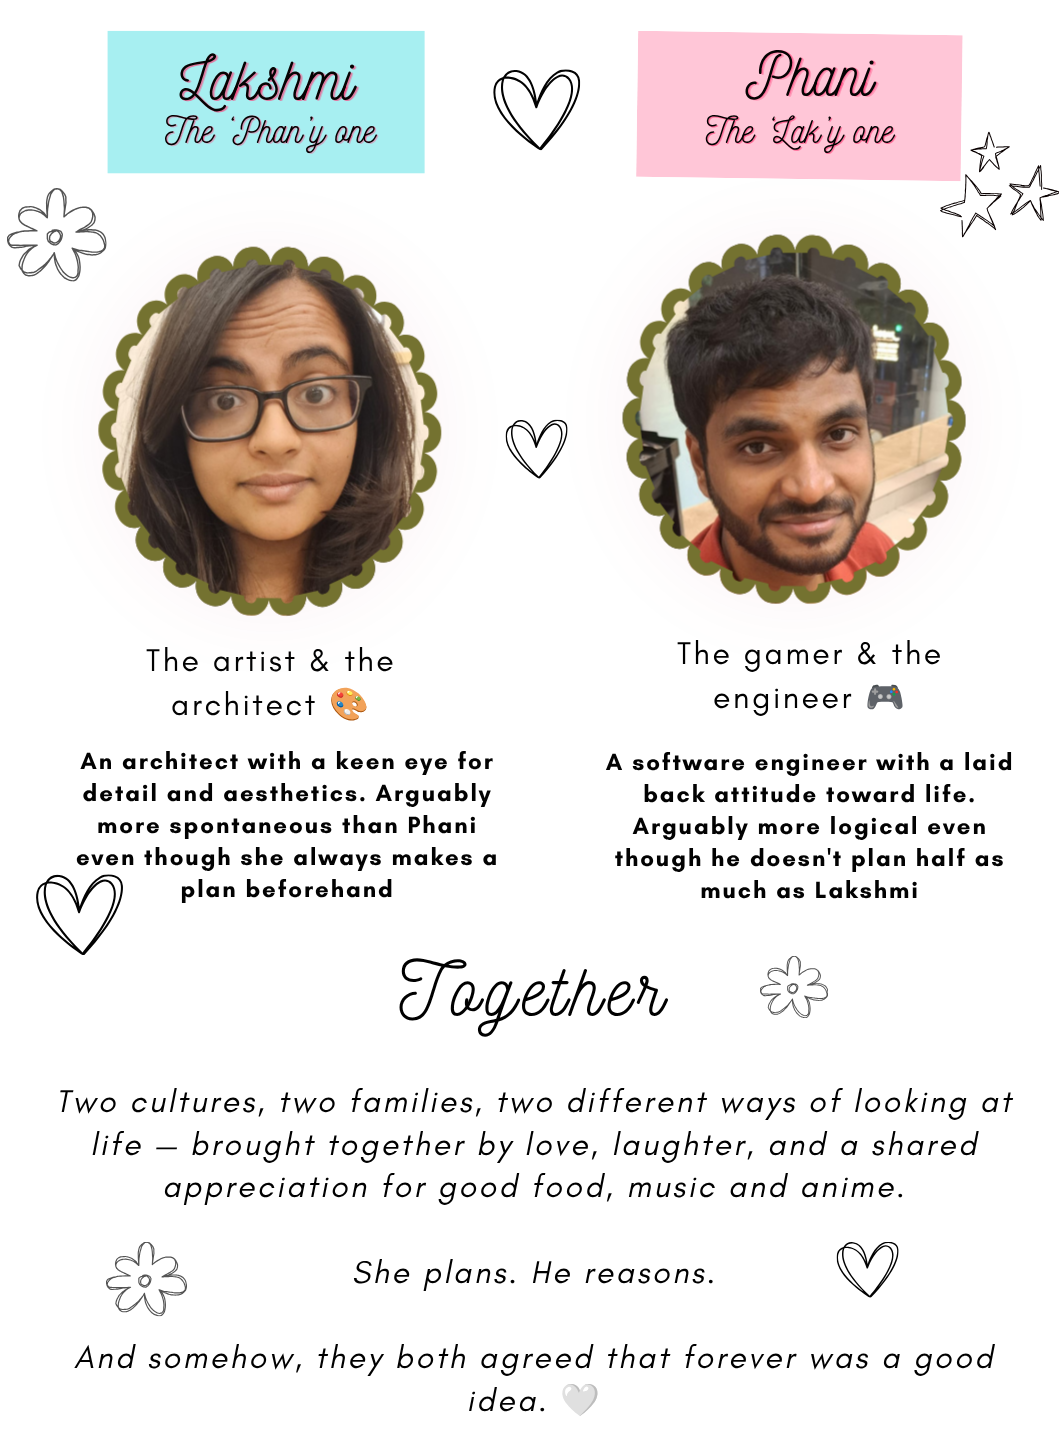
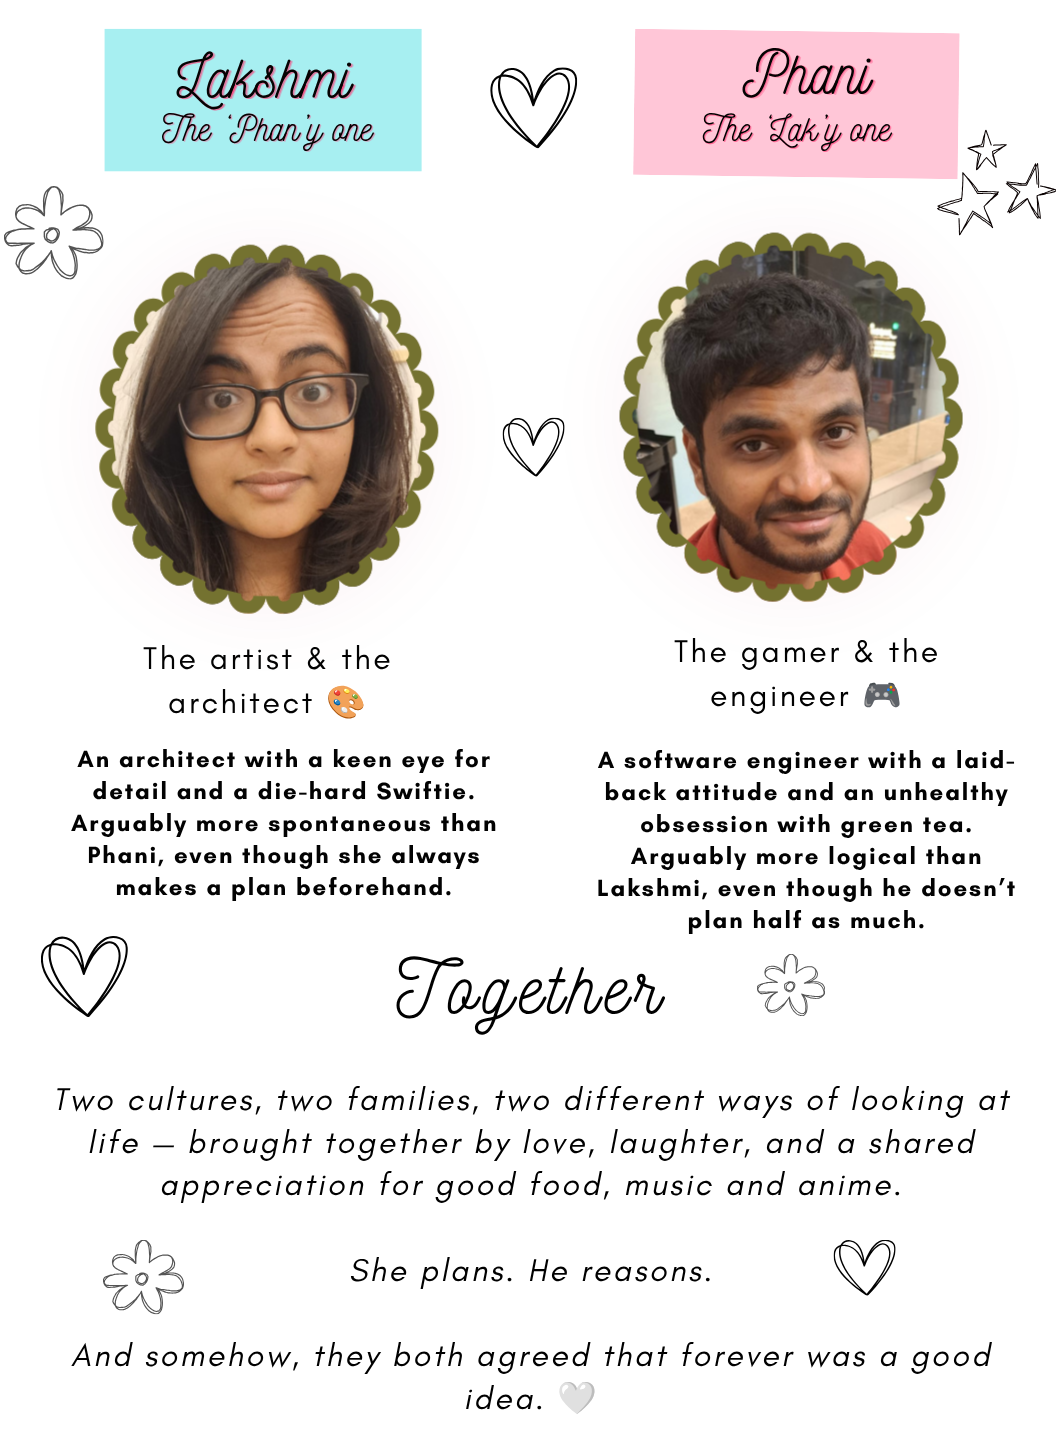
Final changes

diff --git a/index.html b/index.html
@@ -414,14 +414,14 @@
             </div>
 
             <div class="form-group">
-                <label for="message">A note for the couple</label>
-                <textarea id="message" name="message" placeholder="Your wishes / message (optional)"></textarea>
+                <label for="message">A note for the couple (optional)</label>
+                <textarea id="message" name="message" placeholder="Your wishes / message"></textarea>
             </div>
 
             <button type="submit" class="submit-btn">Send RSVP</button>
         </form>
 
-        <p class="stay-tuned">Stay tuned for more updates!</p>
+        <p class="stay-tuned">Formal invites to follow!</p>
     </section>
 
     </div><!-- /.invite-frame -->
